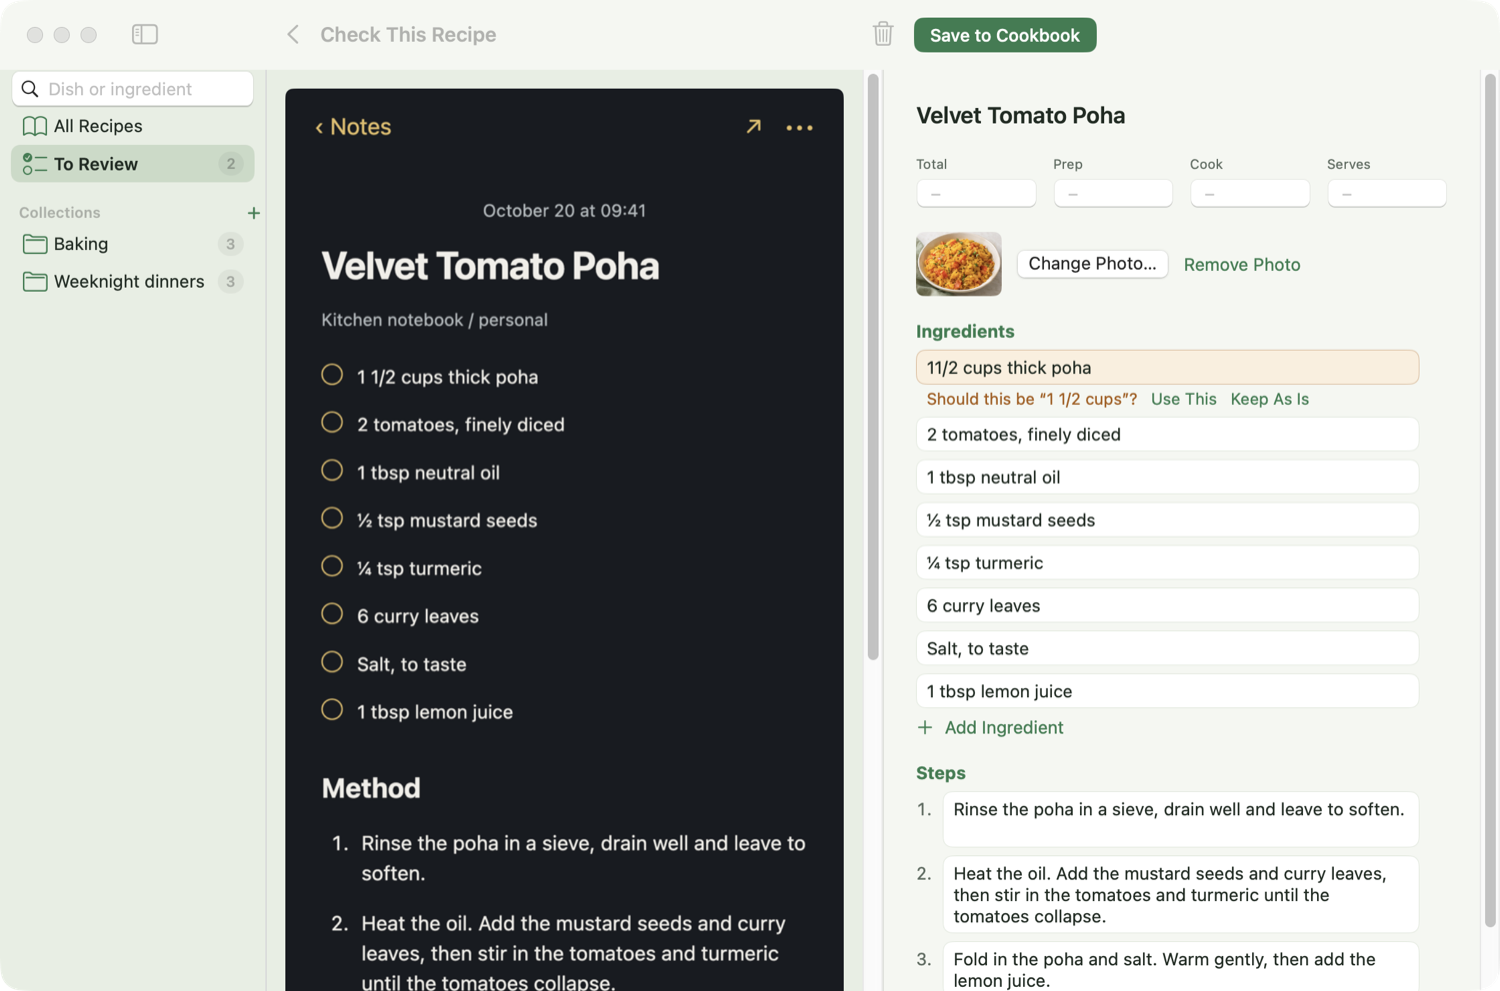
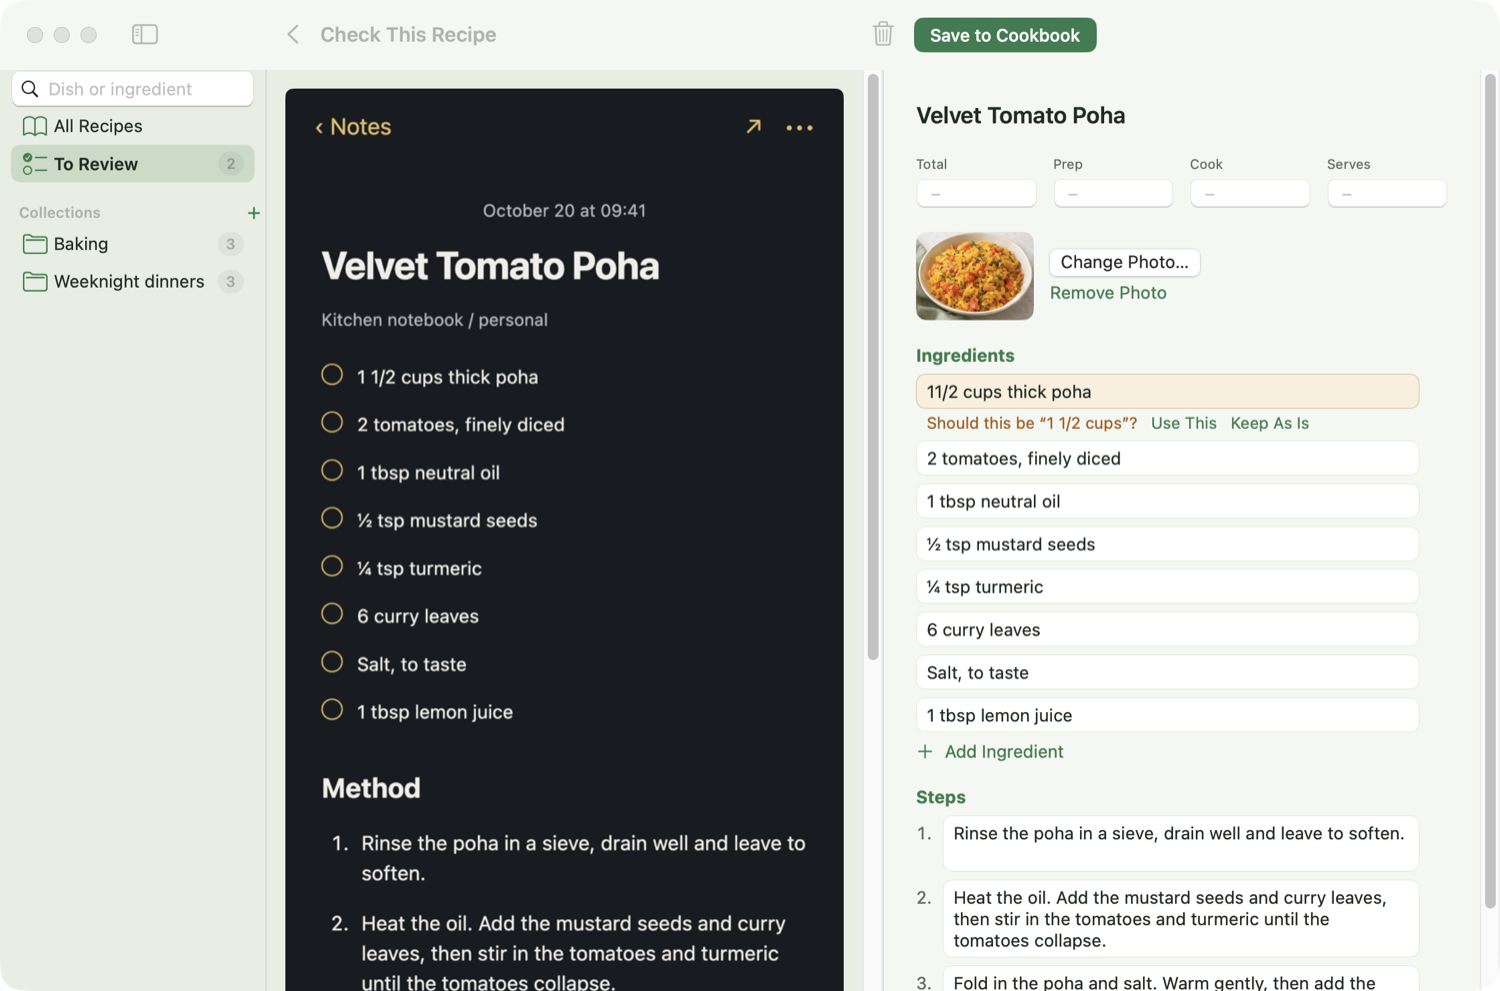
docs: add the gemma4 comparison and correct the model results

Changed region(s): [[0.6133, 0.2119, 0.9507, 0.8476], [0.6133, 0.8779, 0.92, 1.0], [0.9813, 0.9082, 1.0, 0.9384]]

diff --git a/README.md b/README.md
@@ -160,7 +160,7 @@ Each model was tested on the same 20 invented recipe pages, including two images
 | `qwen3.5:9b` | 18 | 2 | About 14 seconds | 7.6 GB |
 | `gemma4:12b` | 19 | 1 | About 15 seconds | 7.7 GB |
 
-`qwen3.5:9b` and Apple's model were then tested on 10 real recipe websites, with each flagged card checked by hand. `gemma4:12b` wasn't part of this test.
+`qwen3.5:9b` and Apple's model were then tested on 10 real recipe websites, with each flagged card checked by hand.
 
 | Result on real pages | `qwen3.5:9b` | Apple's on-device model |
 |---|---|---|
@@ -170,9 +170,21 @@ Each model was tested on the same 20 invented recipe pages, including two images
 | Typical time per card | About 25 seconds | About 6 seconds |
 | Slowest card | 60 seconds | 14 seconds |
 
+The two strongest local models then went head to head, running twice each on the same 10 real pages with Zendish's card checks in place.
+
+| Head to head on real pages | `qwen3.5:9b` | `gemma4:12b` |
+|---|---|---|
+| Typical time per card | About 26 seconds | About 32 seconds |
+| Slowest card | 52 seconds | 58 seconds |
+| Most memory reported by Ollama | 9.1 GB | 12 GB |
+| Lowest free memory on the Mac | 11% | 12% |
+| Cards identical across both runs | 8 of 10 | 6 of 10 |
+| Empty or stepless cards, out of 20 | 1 | 1 |
+| Unrelated page text used as a title | 0 | 2 |
+
 **Why `qwen3.5:9b`**
 
-It made fewer factual mistakes than Apple's model on real pages, and it gave identical cards across repeat runs. `gemma4:12b` scored one card higher, but only through an inconsistent guess, and it used more memory. Apple's model is much faster and needs no setup, which makes it a strong option for the future, but it needs Apple Intelligence turned on and it filled in wrong details more often.
+`gemma4:12b` scored one card higher on invented pages, but on real pages it was slower, less consistent and used unrelated page text as a title. Both models got the ingredients right, and each returned one unusable card out of 20, so Zendish now tries an empty card once more. Apple's model is much faster and needs no setup, which makes it a strong option for the future, but it needs Apple Intelligence turned on and it filled in wrong details more often.
 
 **The whole pipeline**
 

diff --git a/docs/DESIGN.md b/docs/DESIGN.md
@@ -15,7 +15,8 @@ Why Zendish is built the way it is. For how to install and use it, see the [READ
 |---|---|
 | Native SwiftUI | Text recognition, HEIC images and PDF drawing come with macOS, which keeps the app small and leaves no helper program |
 | macOS text recognition, then a text model | Recognition was accurate and fast on recipe screenshots, and a text model is smaller and easier to test than a vision model |
-| `qwen3.5:9b` through Ollama | It was the most accurate model tested that runs on a 16 GB Mac, and it gave identical cards across repeat runs |
+| `qwen3.5:9b` through Ollama | In a head-to-head on real pages it was faster, used less memory and was more consistent than `gemma4:12b`, with the same accuracy on ingredients |
+| One automatic retry for empty cards | The model occasionally returns nothing for a page that clearly has a recipe |
 | Plain-code card checks after the model | Small models fill blanks and drop sections, and checks that use no AI behave the same way every time |
 | Flags instead of silent fixes | A misread quantity is easy to miss, so a person always decides |
 | Times and servings need a nearby label | This stops video timers, like counts and times from inside the method appearing on a card |
@@ -23,7 +24,7 @@ Why Zendish is built the way it is. For how to install and use it, see the [READ
 | A hard limit on the model's output | A stuck model can't hang a card forever |
 | One card read at a time | The model uses most of the Mac's memory |
 | Original images copied into app storage | Recipes keep working if the originals move |
-| Cover photo chosen by hand | A drag is simple and always right, and there's no reliable way to find the food in every screenshot |
+| Card photos added by hand | Many screenshots have no food photo, so choosing your own is simpler and always right |
 | SQLite full-text search | Dish and ingredient names work well with word search, so no embedding model is needed |
 | The Fresh Herb theme | Research pointed to muted greens, soft neutrals and whitespace for health apps. Colour is used sparingly, so warm amber always means "check this" |
 | Step cards on the recipe page | Each step has its own card, which makes it easier to keep your place while cooking |
